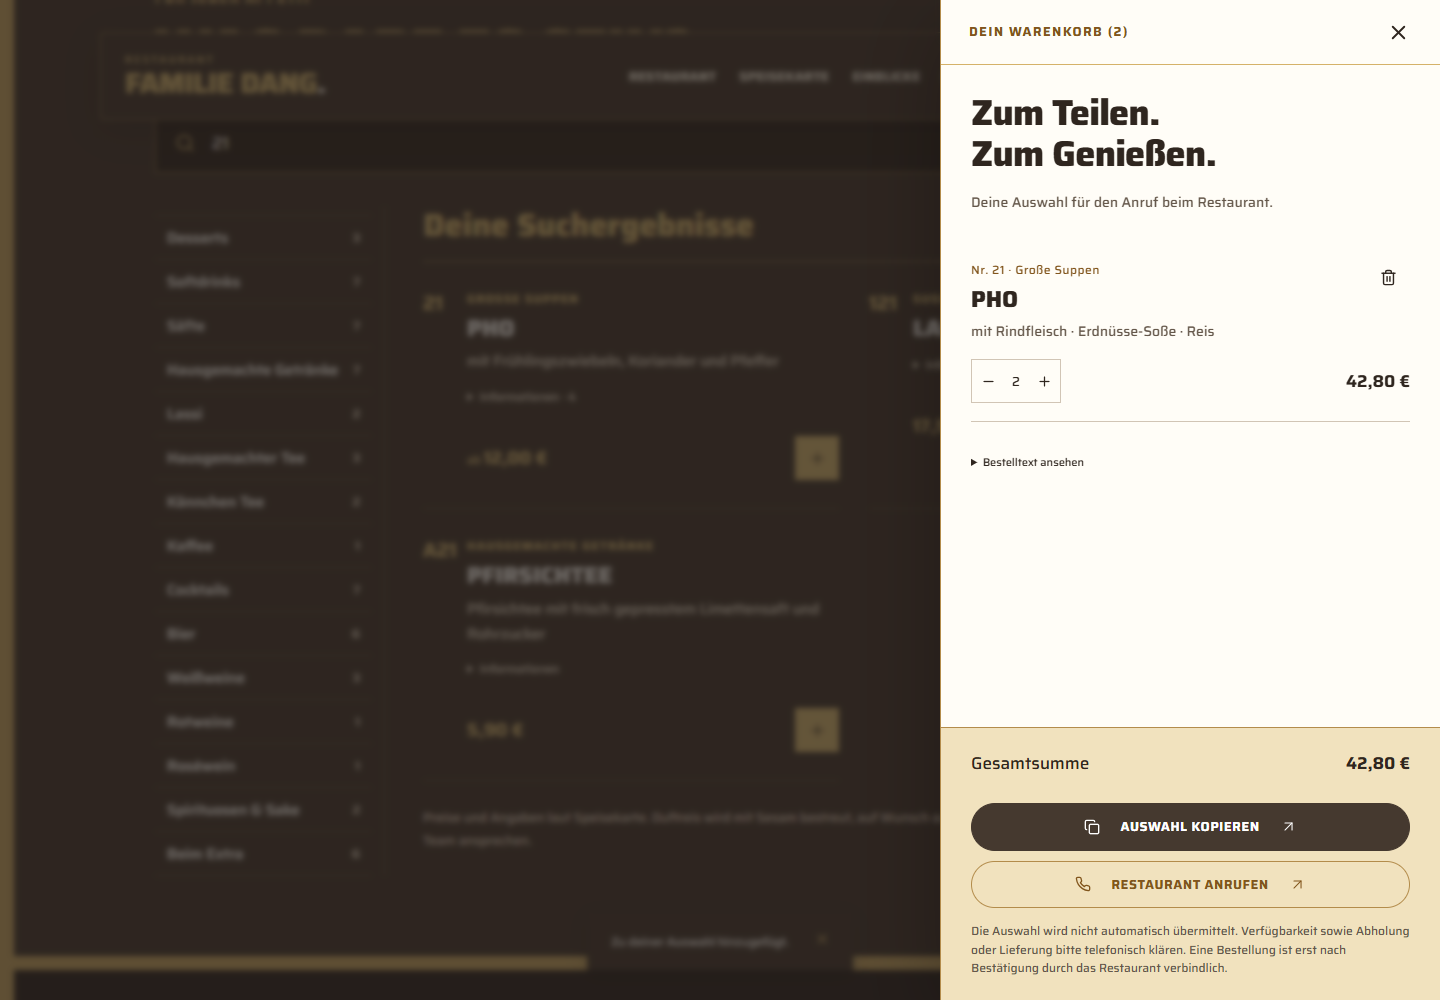
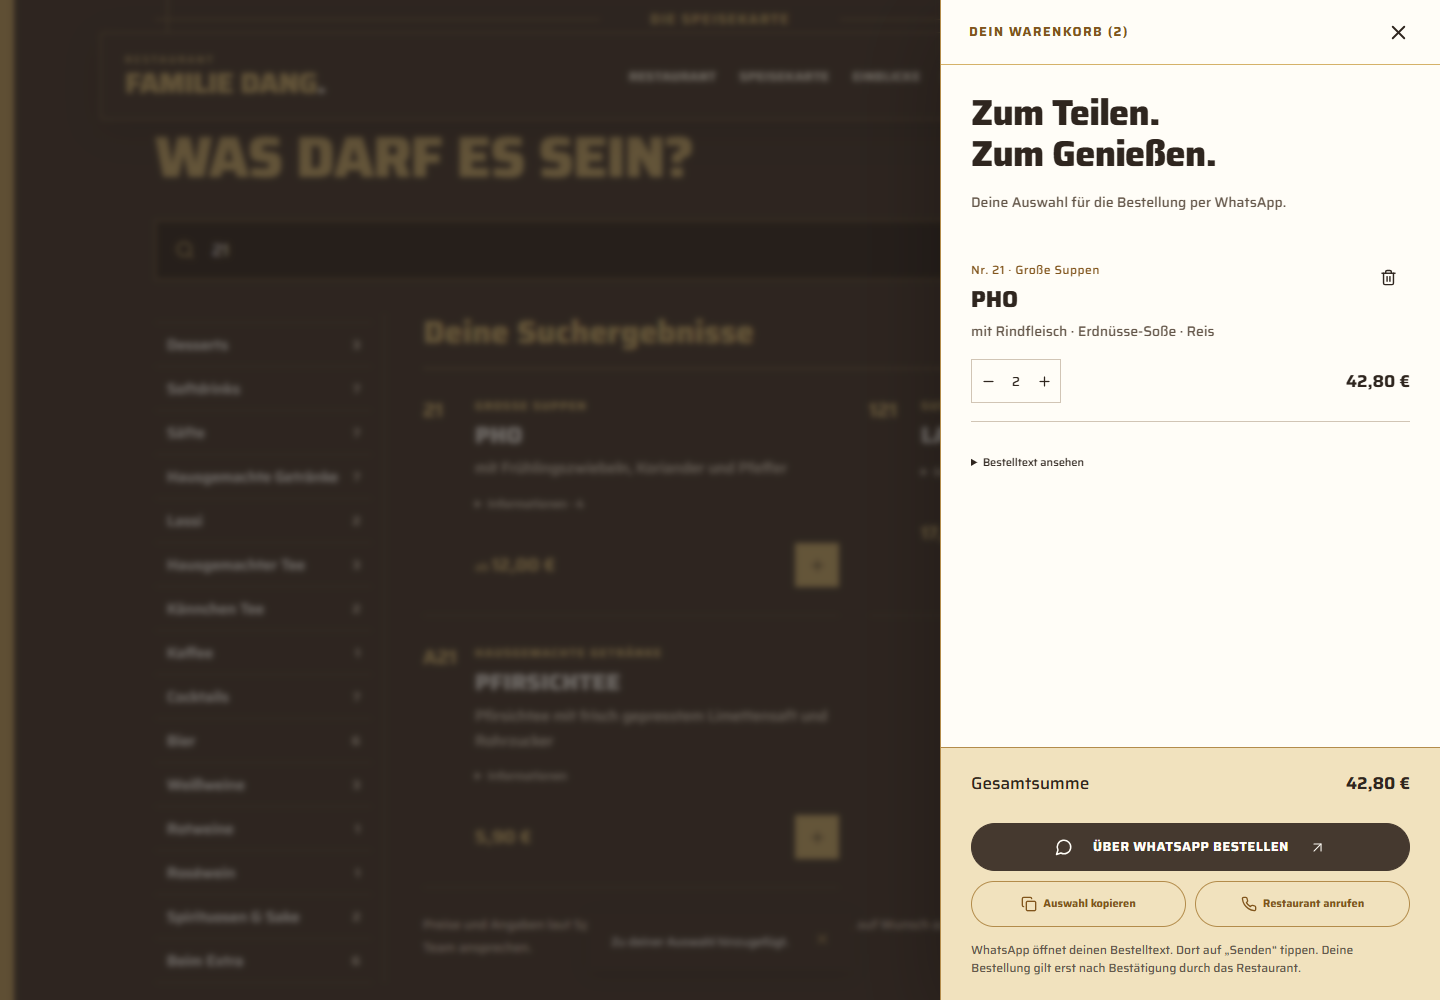
Enable WhatsApp cart ordering to confirmed restaurant number

diff --git a/src/components/CartDrawer.tsx b/src/components/CartDrawer.tsx
@@ -1,8 +1,8 @@
 import { siteUrl } from "../lib/urls";
 import { useEffect, useState } from "react";
-import { Copy, Minus, Plus, ShoppingBag, Trash2, Phone } from "lucide-react";
+import { Copy, Minus, Plus, ShoppingBag, Trash2, Phone, MessageCircle } from "lucide-react";
 import restaurant from "../data/restaurant.json";
-import { dishById, money, orderText, unitPrice } from "../lib/cart";
+import { dishById, money, orderText, unitPrice, whatsappOrderUrl } from "../lib/cart";
 import type { CartController } from "../hooks/useCart";
 import { Dialog, Arrow } from "./UI";
 export default function CartDrawer({
@@ -53,7 +53,7 @@ export default function CartDrawer({
               Zum Genießen.
             </h2>
             <p className="fine-print">
-              Deine Auswahl für den Anruf beim Restaurant.
+              Deine Auswahl für die Bestellung per WhatsApp.
             </p>
             <div className="cart-lines">
               {cart.cart.map((line) => {
@@ -128,21 +128,36 @@ export default function CartDrawer({
             <span>Gesamtsumme</span>
             <b>{money(cart.total)}</b>
           </div>
-          <button className="button solid" onClick={copy}>
-            <Copy size={16} />
-            {copied ? "Auswahl kopiert" : "Auswahl kopieren"}
-            <Arrow />
-          </button>
-          <a className="button" href={restaurant.phoneHref}>
-            <Phone size={16} />
-            Restaurant anrufen
+          <a
+            className="button solid whatsapp-order"
+            href={whatsappOrderUrl(cart.cart)}
+            target="_blank"
+            rel="noopener noreferrer"
+          >
+            <MessageCircle size={18} />
+            Über WhatsApp bestellen
             <Arrow />
           </a>
-          <p className="fine-print" role="status">
-            {copyFailed
-              ? "Kopieren ist hier nicht verfügbar. Du kannst den Bestelltext oben markieren und kopieren."
-              : "Die Auswahl wird nicht automatisch übermittelt. Verfügbarkeit sowie Abholung oder Lieferung bitte telefonisch klären. Eine Bestellung ist erst nach Bestätigung durch das Restaurant verbindlich."}
+          <div className="cart-alternatives">
+            <button className="button" onClick={copy}>
+              <Copy size={16} />
+              {copied ? "Auswahl kopiert" : "Auswahl kopieren"}
+            </button>
+            <a className="button" href={restaurant.phoneHref}>
+              <Phone size={16} />
+              Restaurant anrufen
+            </a>
+          </div>
+          <p className="fine-print">
+            WhatsApp öffnet deinen Bestelltext. Dort auf „Senden“ tippen.
+            Deine Bestellung gilt erst nach Bestätigung durch das Restaurant.
           </p>
+          {copyFailed && (
+            <p className="fine-print" role="status">
+              Kopieren ist hier nicht verfügbar. Du kannst den Bestelltext oben
+              markieren und kopieren.
+            </p>
+          )}
         </div>
       )}
     </Dialog>

diff --git a/src/components/Legal.tsx b/src/components/Legal.tsx
@@ -56,9 +56,18 @@ export default function Legal({ page }: { page: "impressum" | "datenschutz" }) {
             Mengen und Auswahloptionen. Es werden keine Namen, Adressen oder
             Zahlungsdaten abgefragt. Du kannst den Warenkorb über die
             Mengensteuerung oder die Entfernen-Schaltflächen leeren. Die Auswahl
-            wird nicht an einen Server gesendet.
+            wird nicht automatisch an das Restaurant übermittelt.
           </p>
-          <h2>Telefon und Kopieren</h2>
+          <h2>WhatsApp, Telefon und Kopieren</h2>
+          <p>
+            „Über WhatsApp bestellen“ öffnet einen externen WhatsApp-Link zur
+            Nummer +{restaurant.whatsapp}. Dabei wird dein Bestelltext mit
+            Gerichten, Varianten, Extras, Mengen und Gesamtsumme an WhatsApp
+            übergeben. Erst wenn du dort auf „Senden“ tippst, wird die Nachricht
+            an das Restaurant gesendet. Es gelten die Datenschutzinformationen
+            von WhatsApp. Die Website lädt WhatsApp erst nach deinem Klick;
+            alternativ kannst du telefonisch bestellen.
+          </p>
           <p>
             Telefonlinks öffnen die Telefonfunktion deines Geräts. Beim Klick
             auf „Auswahl kopieren“ wird der sichtbare Bestelltext in deine

diff --git a/src/lib/cart.ts b/src/lib/cart.ts
@@ -1,4 +1,5 @@
 import data from "../data/menu.json";
+import restaurant from "../data/restaurant.json";
 import type { CartLine, Dish, Selection } from "../types.ts";
 export const dishes = data.items as Dish[];
 export const dishById = new Map(dishes.map((dish) => [dish.id, dish]));
@@ -96,7 +97,8 @@ export function restoreCart(value: string | null): CartLine[] {
 }
 export function orderText(cart: CartLine[]): string {
   return [
-    "Restaurant Familie Dang — Speisenauswahl",
+    "Hallo Familie Dang, ich möchte folgende Gerichte bestellen:",
+    "",
     ...cart.map((line) => {
       const dish = dishById.get(line.itemId)!;
       const details = [
@@ -110,7 +112,10 @@ export function orderText(cart: CartLine[]): string {
     }),
     "",
     `Gesamtsumme: ${money(cartTotal(cart))}`,
-    "Bitte Verfügbarkeit und die Möglichkeit zur Abholung oder Lieferung telefonisch klären.",
+    "Bitte bestätigt die Verfügbarkeit und teilt mir mit, ob Abholung oder Lieferung möglich ist.",
     "Diese Auswahl ist noch keine bestätigte Bestellung.",
   ].join("\n");
+}
+export function whatsappOrderUrl(cart: CartLine[]): string {
+  return `https://wa.me/${restaurant.whatsapp}?text=${encodeURIComponent(orderText(cart))}`;
 }

diff --git a/src/sections/Landing.tsx b/src/sections/Landing.tsx
@@ -219,20 +219,19 @@ export default function Landing({
               genießen.
             </h2>
             <p>
-              Stelle deine Gerichte im Warenkorb zusammen. Kopiere deine Auswahl
-              und ruf uns an, um die Bestellung, Verfügbarkeit und die
-              Möglichkeiten zur Abholung oder Lieferung zu besprechen.
+              Stelle deine Gerichte im Warenkorb zusammen und sende deine
+              Bestellung per WhatsApp an uns. Verfügbarkeit und die Möglichkeiten
+              zur Abholung oder Lieferung klären wir gemeinsam im Chat.
             </p>
             <button className="button" onClick={onCart}>
-              Warenkorb öffnen
+              Bestellung zusammenstellen
               <Arrow />
             </button>
             <a className="text-link" href={restaurant.phoneHref}>
               {restaurant.phone} <Arrow />
             </a>
             <p className="fine-print">
-              Eine Online-Übermittlung der Bestellung ist derzeit nicht
-              verfügbar.
+              In WhatsApp auf „Senden“ tippen und unsere Bestätigung abwarten.
             </p>
           </Frame>
         </div>

diff --git a/src/brand.css b/src/brand.css
@@ -290,3 +290,26 @@ h2 { font-size: clamp(36px, 3.7vw, 54px); }
   .gallery-inner { min-height: 850px; }
   .gallery-frame h2 { max-width: 190px; font-size: 40px; line-height: 1.08; margin-right: -32px; }
 }
+
+/* WhatsApp order handoff; keep secondary actions compact on small screens. */
+.cart-checkout > .whatsapp-order {
+  background: var(--brown);
+  color: var(--white);
+}
+.cart-checkout > .whatsapp-order:hover { background: var(--gold); }
+.cart-alternatives {
+  display: grid;
+  grid-template-columns: minmax(0, 1fr) minmax(0, 1fr);
+  gap: 9px;
+  margin-top: 10px;
+}
+.cart-alternatives > .button {
+  min-width: 0;
+  min-height: 46px;
+  padding: 10px 8px;
+  gap: 6px;
+  font-size: 11px;
+  letter-spacing: 0;
+  text-transform: none;
+}
+.cart-alternatives svg { flex-shrink: 0; }

diff --git a/QA_REPORT.md b/QA_REPORT.md
@@ -67,3 +67,12 @@ Screenshots include desktop/mobile full-page, hero, menu, cart, gallery/contact,
 - Complete functional browser QA passes: 191 dishes, 29 categories, search, prices, variants, extras, totals, persistence, phone/clipboard handoff, mobile cart/navigation, legal routes, PDF, gallery, and reduced motion. No failed responses or browser errors.
 - Screenshot review covered desktop/mobile hero, story, dark menu and mobile cart. The first responsive pass found the enlarged gallery note too close to its image at 768px; gallery height was increased to separate the content. Responsive QA now fails explicitly for overlap, overflow or broken images instead of only logging those conditions.
 - Final responsive pass: 375, 390, 430, 768, 1024, 1440 and 1920px all show no horizontal overflow, broken images or gallery-note overlap. Additional brand checks confirm Saira at weight 800 for the hero, readable 15px menu/16px+ story copy, the new client hero photo, header/title fit at all seven widths, and accurate gallery attribution (`qa/brand-refresh.json`).
+
+## WhatsApp ordering — 21 October 2026
+
+- Client confirmed **+49 176 87889979** as the WhatsApp order recipient. The cart's primary action opens `https://wa.me/4917687889979` with the complete URL-encoded order: dish numbers/names, variants, extras, drink options, quantities, line totals and total. Customer sends the message in WhatsApp and waits for restaurant confirmation; the cart is retained.
+- Updated the ordering section, cart instructions, privacy description and handover documentation. Phone and clipboard remain available as alternatives. Empty carts do not show a WhatsApp action. No WhatsApp SDK or third-party request is loaded before the customer clicks.
+- All 5 cart tests pass, including exact recipient, Unicode/newline preservation, extras and updated quantities/totals. Production build for the GitHub Pages subpath passes.
+- Full browser suite passes, including an intercepted WhatsApp button click opening a new tab with the correct recipient and 57,10 € order. Clipboard comparison normalizes Windows line endings. The destination was intercepted to avoid sending a test order or contacting the restaurant.
+- Checked checkout at 375, 390, 430, 768, 1024, 1440 and 1920px, including 667px-tall mobile viewports: primary action and checkout remain visible, no horizontal overflow. Inspected mobile screenshot; report and screenshots: `qa/whatsapp.json`, `qa/whatsapp-mobile.png`, `qa/whatsapp-desktop.png`.
+- Real message delivery and restaurant response require the customer's WhatsApp session and were not tested. No automatic order-success message is shown. Click-to-chat format follows https://faq.whatsapp.com/5913398998672934 .

diff --git a/CONTENT_REVIEW.md b/CONTENT_REVIEW.md
@@ -18,7 +18,7 @@ The Google Maps link is an address search based on the client Word, not a verifi
 - Actual hosting provider and data processing details for complete `/datenschutz`, including controller contact, server logs, recipients, retention periods and rights information. Existing page describes current implementation honestly and flags missing operator/hosting information.
 - Confirm corrected allergen/additive table and ambiguous menu entries in `MENU_REVIEW.md`.
 - Confirm rights to photographs embedded in the provided menu. Source assets are mapped by PDF page and image xref in `research/asset-manifest.json`.
-- Provide verified ordering platform/API or explicitly verified WhatsApp number if desired. Existing mobile number is used only as a telephone link. Confirm fulfillment modes; currently neither pickup nor delivery is sold or promised.
+- WhatsApp ordering number **+49 176 87889979** explicitly confirmed by the client on 21 October 2026. Cart now opens a prefilled chat to this number. Customer sends the message in WhatsApp; restaurant confirmation is still required. Confirm fulfillment modes; currently neither pickup nor delivery is sold or promised.
 - Provide booking service and/or confirmation that telephone reservations are accepted. Current links invite a table inquiry; they do not claim confirmed reservations.
 - Provide email/social accounts, restaurant logo and interior photographs if desired. Text wordmark is new typography, not a copied logo.
 - Set final public domain, canonical URL, `og:url` and an absolute `og:image` URL after hosting is decided. Relative local OG image is only preparatory.

diff --git a/README.md b/README.md
@@ -33,7 +33,7 @@ npm run preview
 
 Bộ dữ liệu có **185 mục đánh số + 6 extras = 191 mục**, **318 lựa chọn có giá**, **29 danh mục**. Khoảng trống số món và các lỗi chữ của menu gốc được bảo toàn. `sourcePage` và `sourceText` giúp đối chiếu. Những ký hiệu dị ứng chưa chắc chắn có trong `MENU_REVIEW.md`.
 
-Giỏ hàng chỉ chuẩn bị lựa chọn. Người dùng có thể sao chép và gọi điện; website không tự gửi đơn, thu tiền, hứa giao hàng/nhận tại quán hoặc báo đặt hàng thành công. Khi có API/platform/WhatsApp được xác minh, tích hợp kênh này tại `CartDrawer.tsx` và bổ sung kiểm tra thành công/thất bại thật.
+Khách đặt món qua WhatsApp số **+49 176 87889979**, được chủ website xác nhận ngày 21/10/2026. Nút trong giỏ hàng mở WhatsApp với đầy đủ món, biến thể, extras, số lượng và tổng tiền; khách cần bấm Gửi và chờ quán xác nhận. Có nút sao chép và gọi điện dự phòng. Website không thu tiền, tự gửi tin nhắn, hứa giao hàng/nhận tại quán hoặc báo thành công giả. Số WhatsApp cấu hình trong `src/data/restaurant.json`; nội dung đơn và URL nằm trong `src/lib/cart.ts`.
 
 ## Kiểm tra
 
